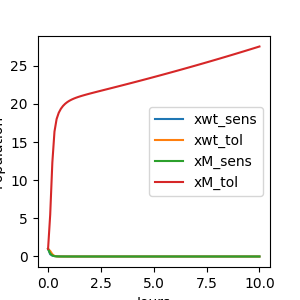
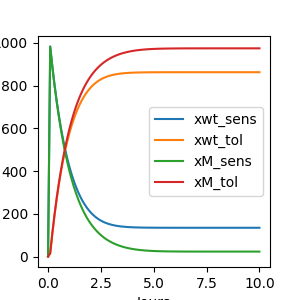
added gui for sensitivity analysis

diff --git a/MedicamentResistanceODE/model.py b/MedicamentResistanceODE/model.py
@@ -28,8 +28,8 @@ class ModelCATImproved:
             self.a_wt_tol = filtered_rows['a_wt_tol'].values[0]
             self.a_M_sens = filtered_rows['a_m_sens'].values[0]
             self.a_M_tol = filtered_rows['a_m_tol'].values[0]
-            self.v_sens = filtered_rows['v_sens'].values[0]
-            self.v_tol = filtered_rows['v_tol'].values[0]
+            self.v_wt = filtered_rows['v_wt'].values[0]
+            self.v_m = filtered_rows['v_m'].values[0]
 
 
     def model(self, y, t):
@@ -37,17 +37,32 @@ class ModelCATImproved:
 
         dydt = [
             (self.l_wt_sens * xwt_sens + self.a_wt_sens * xwt_sens * (xM_sens + xM_tol))
-            * (1 - (xwt_sens + xwt_tol) / self.Kwt) - self.v_sens * xwt_sens,
+            * (1 - (xwt_sens + xwt_tol) / self.Kwt) - self.v_wt * xwt_sens,
 
             (self.l_wt_tol * xwt_tol + self.a_wt_tol * xwt_tol * (xM_sens + xM_tol))
-            * (1 - (xwt_sens + xwt_tol) / self.Kwt) + self.v_tol * xwt_sens,
+            * (1 - (xwt_sens + xwt_tol) / self.Kwt) + self.v_m * xwt_sens,
 
             (self.l_M_sens * xM_sens + self.a_M_sens * xM_sens * (xwt_sens + xwt_tol))
-            * (1 - (xM_sens + xM_tol) / self.Km) - self.v_sens * xM_sens,
+            * (1 - (xM_sens + xM_tol) / self.Km) - self.v_wt * xM_sens,
 
             (self.l_M_tol * xM_tol + self.a_M_tol * xM_tol * (xwt_sens + xwt_tol))
-            * (1 - (xM_sens + xM_tol) / self.Km) + self.v_tol * xM_sens
+            * (1 - (xM_sens + xM_tol) / self.Km) + self.v_m * xM_sens
         ]
+
+        #  dydt = [
+        #      (self.l_wt_sens * xwt_sens + self.a_wt_sens * xwt_sens * (xM_sens + xM_tol))
+        #      * (1 - (xwt_sens + xwt_tol) / self.Kwt) - self.v_wt * xwt_sens,
+
+        #      (self.l_wt_tol * xwt_tol + self.a_wt_tol * xwt_tol * (xM_sens + xM_tol))
+        #      * (1 - (xwt_sens + xwt_tol) / self.Kwt) + self.v_wt * xwt_sens,
+
+        #      (self.l_M_sens * xM_sens + self.a_M_sens * xM_sens * (xwt_sens + xwt_tol))
+        #      * (1 - (xM_sens + xM_tol) / self.Km) - self.v_m * xM_sens,
+
+        #      (self.l_M_tol * xM_tol + self.a_M_tol * xM_tol * (xwt_sens + xwt_tol))
+        #      * (1 - (xM_sens + xM_tol) / self.Km) + self.v_m * xM_sens
+        #  ]
+
 
         return dydt
 
@@ -159,7 +174,6 @@ def get_daily_cancer_cells2(medicament: str, proportion: str, y0, to_plot: bool 
     # create figure
     plt.figure(figsize=FIGSIZE)
 
-
     # compute solutions for all IVP
     t_start, t_end, num_points = 0, 10, 100
     t, solution = model_instance.solve(y0, t_start, t_end, num_points)
@@ -170,6 +184,7 @@ def get_daily_cancer_cells2(medicament: str, proportion: str, y0, to_plot: bool 
     if to_plot:
         plt.plot(t, cancer, label="Mutant $x_{M}$")
         plt.plot(t, healthy, label='Wild $x_{WT}$')
+
 
     if to_plot:
         plt.legend()
@@ -261,25 +276,34 @@ if __name__ == "__main__":
     GRAPHICS_DIR = 'MedicamentResistanceODE/graphics/'
     FIGSIZE = (3,3)
 
-    test_cases(medicament= "Docetaxel", proportion= "50_50", ode_graph_title= "ode_docetaxel_50_50", cancer_graph_title= "cancer_docetaxel_50_50", to_save=True, 
-               y0=[1,1,1,1])
+    #  test_cases(medicament= "Docetaxel", proportion= "50_50", ode_graph_title= "ode_docetaxel_50_50", cancer_graph_title= "cancer_docetaxel_50_50", to_save=True, 
+    #             y0=[1,1,1,1])
 
-    test_cases(medicament= "Docetaxel", proportion= "90_10", ode_graph_title= "ode_docetaxel_90_10", cancer_graph_title= "cancer_docetaxel_90_10", to_save=True, 
-               y0=[2.70, 2.70, 1.5, 1.5])
+    #  test_cases(medicament= "Docetaxel", proportion= "90_10", ode_graph_title= "ode_docetaxel_90_10", cancer_graph_title= "cancer_docetaxel_90_10", to_save=True, 
+    #             y0=[2.70, 2.70, 1.5, 1.5])
 
-    test_cases(medicament= "Docetaxel", proportion= "10_90", ode_graph_title= "ode_docetaxel_10_90", cancer_graph_title= "cancer_docetaxel_10_90", to_save=True, 
-               y0=[1,1,1,1])
+    #  test_cases(medicament= "Docetaxel", proportion= "10_90", ode_graph_title= "ode_docetaxel_10_90", cancer_graph_title= "cancer_docetaxel_10_90", to_save=True, 
+    #             y0=[1,1,1,1])
 
-    test_cases(medicament= "Afatinib", proportion= "50_50", ode_graph_title= "ode_afitinib_50_50", cancer_graph_title= "cancer_afitinib_50_50", to_save=True, 
-               y0=[1,1,1,1])
+    #  test_cases(medicament= "Afatinib", proportion= "50_50", ode_graph_title= "ode_afitinib_50_50", cancer_graph_title= "cancer_afitinib_50_50", to_save=True, 
+    #             y0=[1,1,1,1])
 
-    test_cases(medicament= "Afatinib", proportion= "90_10", ode_graph_title= "ode_afitinib_90_10", cancer_graph_title= "cancer_afitinib_90_10", to_save=True, 
-               y0=[2.2117, 2.2117, 1.4259, 1.4259])
+    #  test_cases(medicament= "Afatinib", proportion= "90_10", ode_graph_title= "ode_afitinib_90_10", cancer_graph_title= "cancer_afitinib_90_10", to_save=True, 
+    #             y0=[2.2117, 2.2117, 1.4259, 1.4259])
 
-    test_cases(medicament= "Afatinib", proportion= "10_90", ode_graph_title= "ode_afitinib_10_90", cancer_graph_title= "cancer_afitinib_10_90", to_save=True, 
-               y0=[1,1,1,1])
+    #  test_cases(medicament= "Afatinib", proportion= "10_90", ode_graph_title= "ode_afitinib_10_90", cancer_graph_title= "cancer_afitinib_10_90", to_save=True, 
+    #             y0=[1,1,1,1])
 
-    test_cases(medicament= "Bortezomib", proportion= "50_50", ode_graph_title= "ode_bortezomib_50_50", cancer_graph_title= "cancer_bortezomib_50_50", to_save=True, 
-               y0=[1,1,1,1])
+    #  test_cases(medicament= "Bortezomib", proportion= "50_50", ode_graph_title= "ode_bortezomib_50_50", cancer_graph_title= "cancer_bortezomib_50_50", to_save=True, 
+    #             y0=[1,1,1,1])
+
+    #  test_cases(medicament= "Bortezomib", proportion= "10_90", ode_graph_title= "ode_bortezomib_10_90", cancer_graph_title= "cancer_bortezomib_10_90", to_save=True, 
+    #             y0=[1,1,1,1])
+
+    #  test_cases(medicament= "Bortezomib", proportion= "90_10", ode_graph_title= "ode_bortezomib_90_10", cancer_graph_title= "cancer_bortezomib_90_10", to_save=True, 
+    #             y0=[1,1,1,1])
+
+    test_cases(medicament= "No Drug", proportion= "50_50", ode_graph_title= "tmp", cancer_graph_title= "tmp", to_save=True, 
+               y0=[1,0,1,0])
 
 

diff --git a/MedicamentResistanceODE/gui.py b/MedicamentResistanceODE/gui.py
@@ -1,0 +1,128 @@
+import streamlit as st
+import numpy as np
+import pandas as pd
+from scipy.integrate import odeint
+import matplotlib.pyplot as plt
+
+class ModelCATImproved:
+    def __init__(self, medicament: str, proportion: str):
+        self.medicament = medicament
+        self.proportion = proportion
+        self._load_model()
+
+    def _load_model(self):
+        filtered_rows = df[(df['medicament'] == self.medicament) & (df['proportion'] == self.proportion)]
+        if not filtered_rows.empty:
+            self.Kwt = st.sidebar.slider("Kwt", min_value=0.1, max_value=10.0, value=filtered_rows['Kwt'].values[0])
+            self.Km = st.sidebar.slider("Km", min_value=0.1, max_value=10.0, value=filtered_rows['Km'].values[0])
+            self.l_wt_sens = st.sidebar.slider("l_wt_sens", min_value=0.1, max_value=10.0, value=filtered_rows['l_wt_sens'].values[0])
+            self.l_wt_tol = st.sidebar.slider("l_wt_tol", min_value=0.1, max_value=10.0, value=filtered_rows['l_wt_tol'].values[0])
+            self.l_M_sens = st.sidebar.slider("l_M_sens", min_value=0.1, max_value=10.0, value=filtered_rows['l_m_sens'].values[0])
+            self.l_M_tol = st.sidebar.slider("l_M_tol", min_value=0.1, max_value=10.0, value=filtered_rows['l_m_tol'].values[0])
+            self.a_wt_sens = st.sidebar.slider("a_wt_sens", min_value=0.1, max_value=10.0, value=filtered_rows['a_wt_sens'].values[0])
+            self.a_wt_tol = st.sidebar.slider("a_wt_tol", min_value=0.1, max_value=10.0, value=filtered_rows['a_wt_tol'].values[0])
+            self.a_M_sens = st.sidebar.slider("a_M_sens", min_value=0.1, max_value=10.0, value=filtered_rows['a_m_sens'].values[0])
+            self.a_M_tol = st.sidebar.slider("a_M_tol", min_value=0.1, max_value=10.0, value=filtered_rows['a_m_tol'].values[0])
+            self.v_wt = st.sidebar.slider("v_wt", min_value=0.1, max_value=10.0, value=filtered_rows['v_wt'].values[0])
+            self.v_m = st.sidebar.slider("v_m", min_value=0.1, max_value=10.0, value=filtered_rows['v_m'].values[0])
+
+    def model(self, y, t):
+        xwt_sens, xwt_tol, xM_sens, xM_tol = y
+
+        dydt = [
+            (self.l_wt_sens * xwt_sens + self.a_wt_sens * xwt_sens * (xM_sens + xM_tol))
+            * (1 - (xwt_sens + xwt_tol) / self.Kwt) - self.v_wt * xwt_sens,
+
+            (self.l_wt_tol * xwt_tol + self.a_wt_tol * xwt_tol * (xM_sens + xM_tol))
+            * (1 - (xwt_sens + xwt_tol) / self.Kwt) + self.v_m * xwt_sens,
+
+            (self.l_M_sens * xM_sens + self.a_M_sens * xM_sens * (xwt_sens + xwt_tol))
+            * (1 - (xM_sens + xM_tol) / self.Km) - self.v_wt * xM_sens,
+
+            (self.l_M_tol * xM_tol + self.a_M_tol * xM_tol * (xwt_sens + xwt_tol))
+            * (1 - (xM_sens + xM_tol) / self.Km) + self.v_m * xM_sens
+        ]
+        return dydt
+
+    def solve(self, y0, t_start, t_end, num_points):
+        t = np.linspace(t_start, t_end, num_points)
+        solution = odeint(self.model, y0, t)
+        return t, solution
+
+    def plot_solution(self, t, solution, to_save: bool = False):
+        f = plt.figure(figsize=FIGSIZE)
+        axarr = f.add_subplot(1,1,1)
+
+        xwt_sens_solution = solution[:, 0]
+        xwt_tol_solution = solution[:, 1]
+        xM_sens_solution = solution[:, 2]
+        xM_tol_solution = solution[:, 3]
+
+        plt.plot(t, xwt_sens_solution, label='xwt_sens')
+        plt.plot(t, xwt_tol_solution, label='xwt_tol')
+        plt.plot(t, xM_sens_solution, label='xM_sens')
+        plt.plot(t, xM_tol_solution, label='xM_tol')
+        plt.legend()
+        plt.xlabel('Jours')
+        plt.ylabel('Population')
+        plt.title(r'Croissance des cellules $x_{wt}^{tol}$, $x_{wt}^{sens}$, $x_{M}^{tol}$, $x_{M}^{sens}$ baigné dans le {self.medicament} avec une proportion initiale de {self.proportion}')
+        plt.title(f'Croissance cellulaire dans le {self.medicament} avec une proportion initiale de {self.proportion}')
+
+        if to_save:
+            filename = f"ode_{self.medicament}_{self.proportion}"
+            plt.savefig(os.path.join(GRAPHICS_DIR, filename))
+
+        plt.show()
+
+        return f
+
+    def plot_cancer(self, y0):
+        f = plt.figure(figsize=FIGSIZE)
+        axarr = f.add_subplot(1,1,1)
+
+        t_start, t_end, num_points = 0, 10, 100
+        t, solution = self.solve(y0, t_start, t_end, num_points)
+        healthy = solution[:, 0] + solution[:, 1]
+        cancer = solution[:, 2] + solution[:, 3]
+
+        plt.plot(t, cancer, label="Mutant $x_{M}$")
+        plt.plot(t, healthy, label='Wild $x_{WT}$')
+
+        plt.legend()
+        plt.xlabel('Jours')
+        plt.ylabel('Population')
+        plt.show()
+        return f
+
+
+# Load the data outside the class to use it in Streamlit
+df = pd.read_csv("~/Projects/Miscellaneous-Projects/MedicamentResistanceODE/data2.csv")
+GRAPHICS_DIR = '~/Projects/Miscellaneous-Projects/MedicamentResistanceODE/graphics/'
+FIGSIZE = (3, 3)
+
+# Streamlit app
+def main():
+    st.title("Medicament Resistance Model")
+
+    # Sidebar with parameters
+    st.sidebar.header("Model Parameters")
+    medicament = st.sidebar.selectbox("Select Medicament", ["Docetaxel", "Bortezomib", "Afatinib", "No Drug"])
+    proportion = st.sidebar.selectbox("Select Proportion", ["10_90", "50_50", "90_10"])
+
+    # Load and display model parameters
+    model_instance = ModelCATImproved(medicament=medicament, proportion=proportion)
+    st.sidebar.subheader("Model Parameters:")
+    st.sidebar.text(f"Kwt: {model_instance.Kwt}")
+    st.sidebar.text(f"Km: {model_instance.Km}")
+    # Add other parameters as needed
+
+    y0 = [1, 0, 1, 0]  # Initial values, update as needed
+    t_start, t_end, num_points = 0, 10, 100
+
+    # plot cancer
+    st.pyplot(model_instance.plot_cancer(y0))
+
+
+if __name__ == "__main__":
+    main()
+
